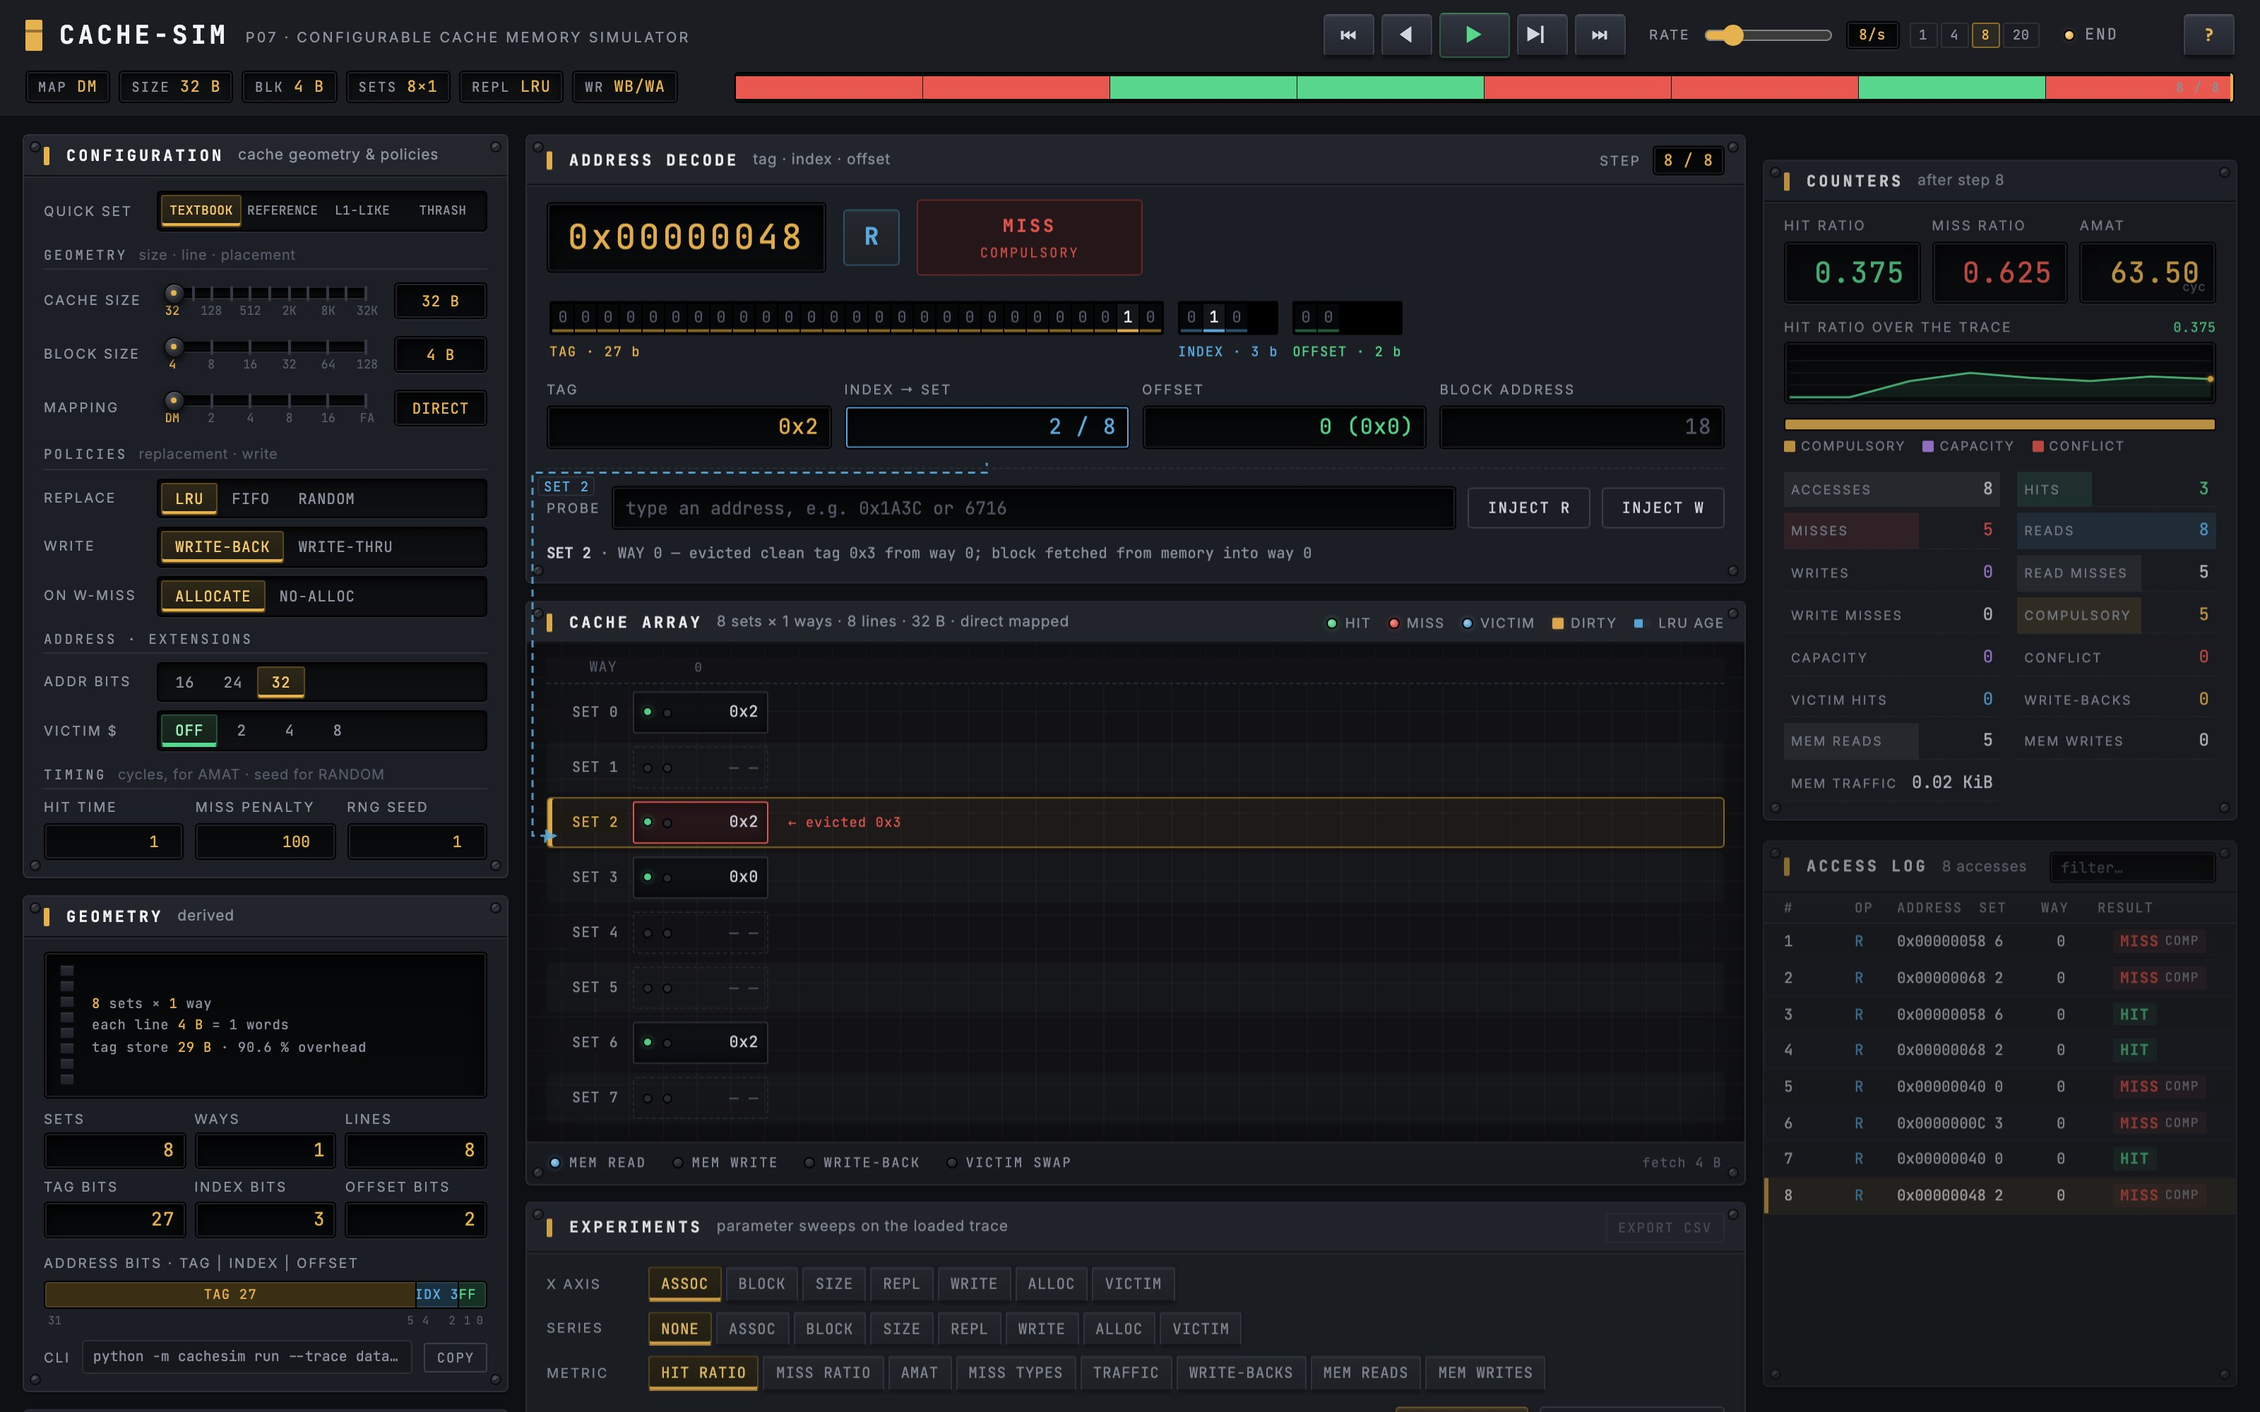
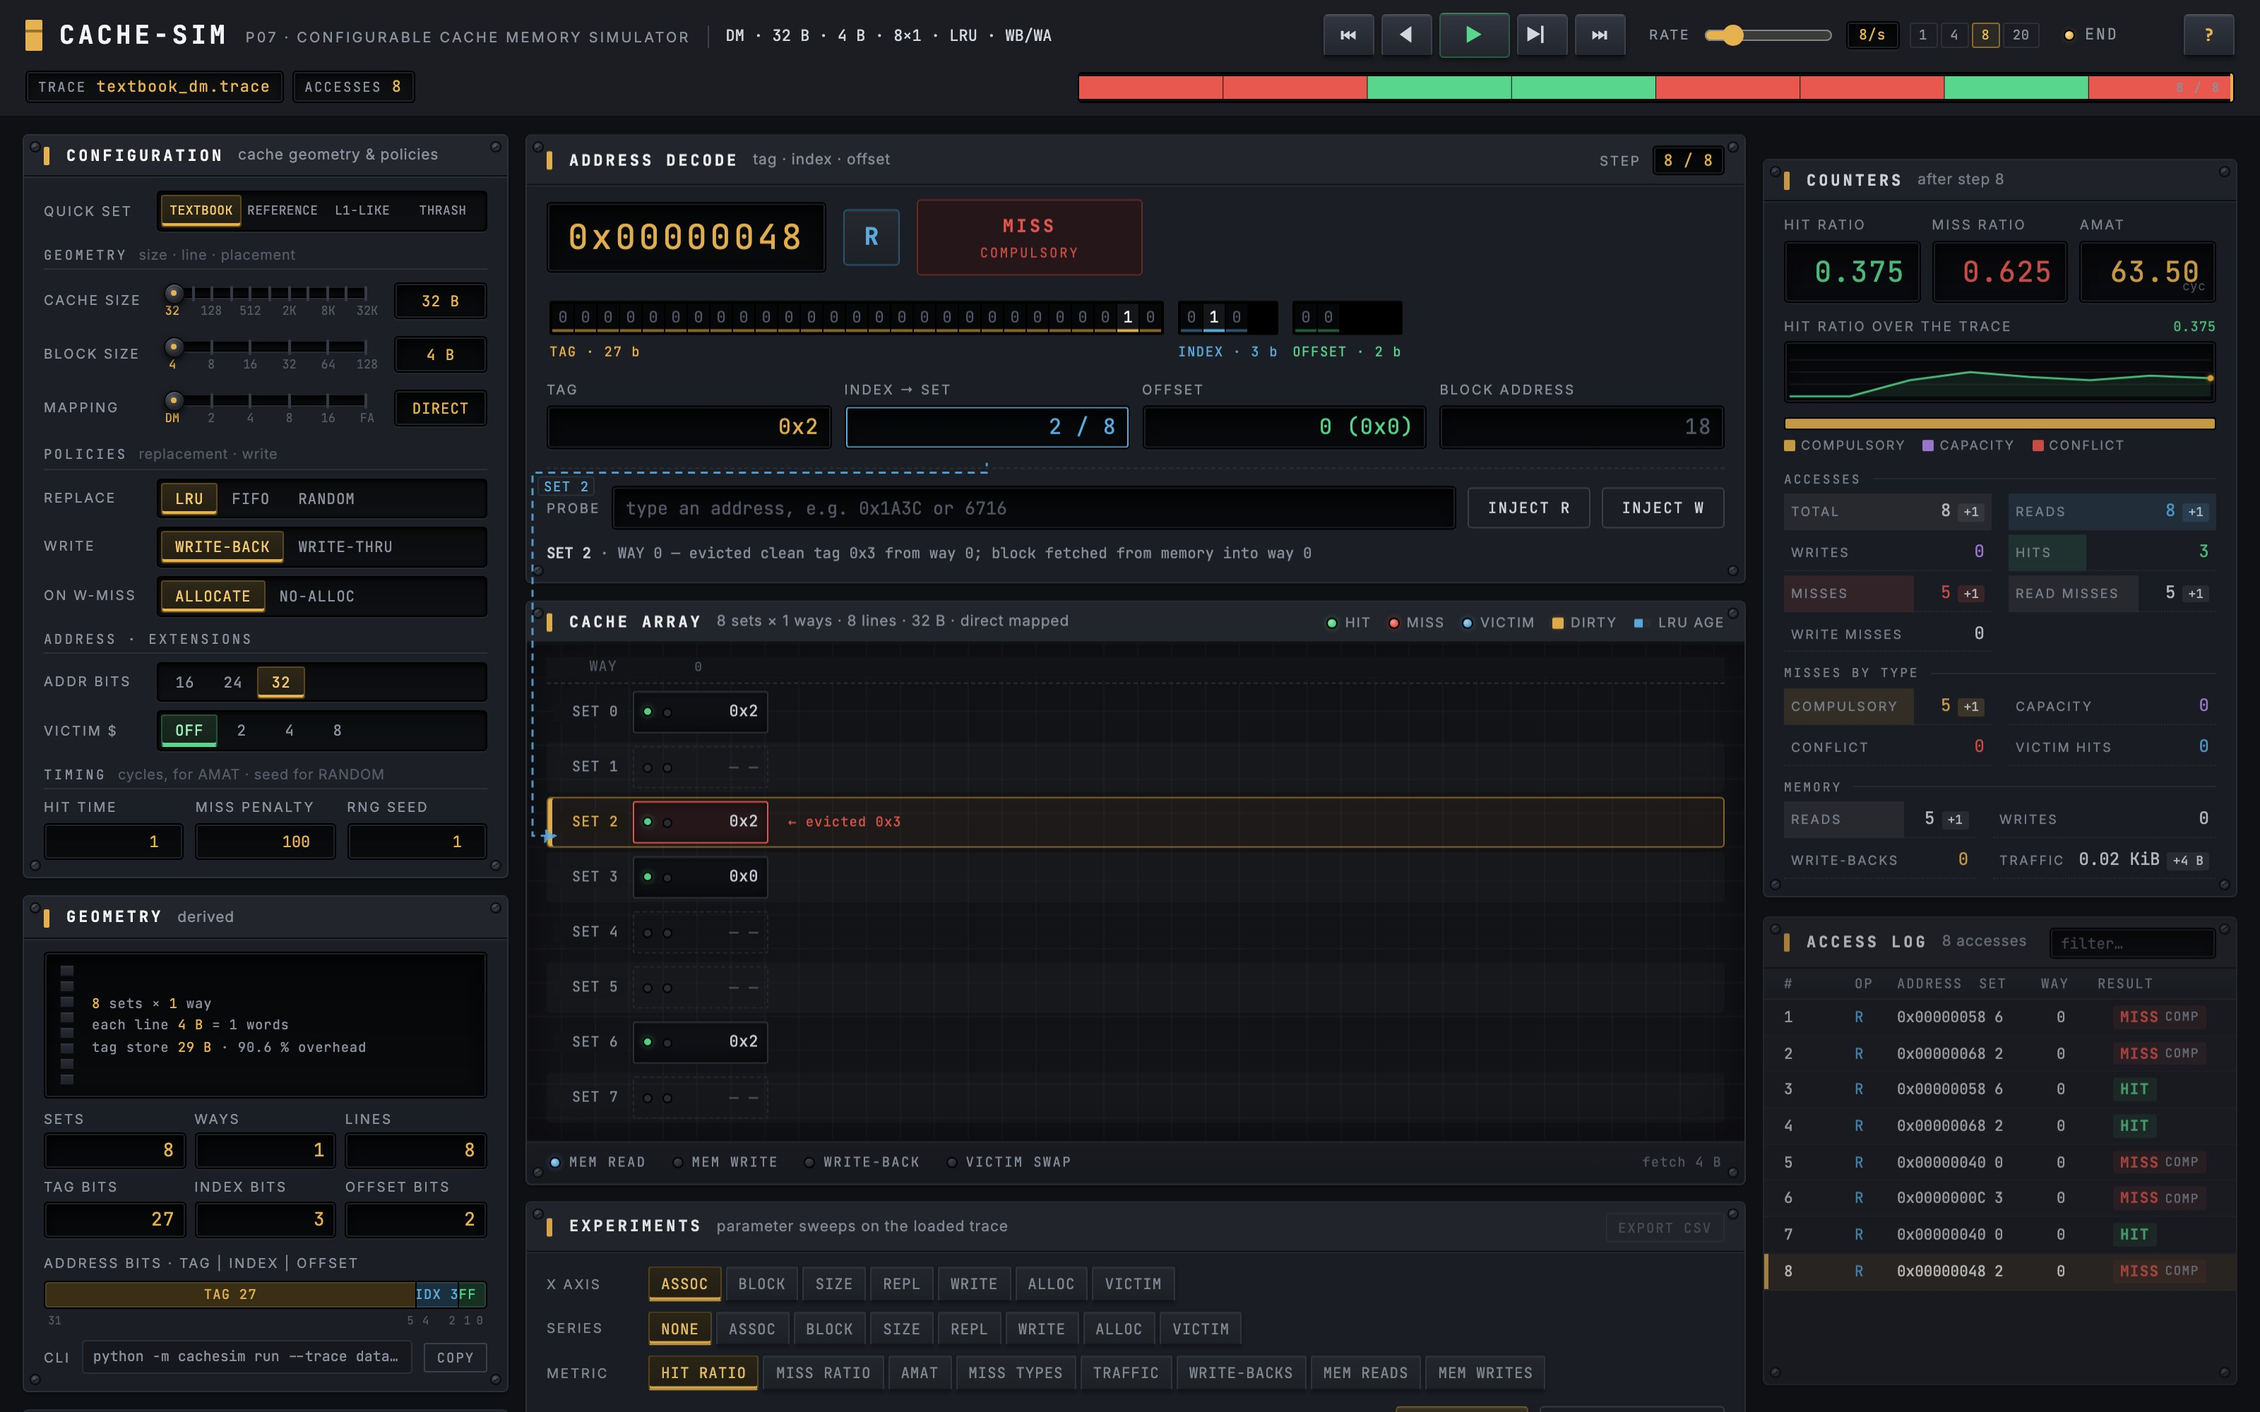
GUI: grouped counters with deltas, sortable sweep table, top-bar summary
- COUNTERS: three groups (accesses, misses by type, memory) with captions;
  every value that the current access changed shows a +n delta badge
- EXPERIMENTS: x-axis title on the chart; results table has a sticky header
  and sortable columns (click a header: descending, ascending, off), the
  hovered bar still highlights its row after sorting
- top bar: configuration summary sits next to the brand; the second row
  carries the trace name and access count beside the timeline

diff --git a/src/web/app.js b/src/web/app.js
@@ -32,6 +32,7 @@ const state = {
   sweepView: null,       // what the chart currently shows (for the hover tooltip)
   hiddenSeries: new Set(), // chart series switched off via the legend
   arrayFocus: null,        // set index the detail window is centred on (large caches), null = follow the access
+  sweepSort: null,         // {col, dir} for the results table
   presetCache: {},
 };
 
@@ -396,12 +397,12 @@ function cfgSubset(c) {
 function renderReadoutStrip() {
   const g = geometry();
   const map = g.is_fully_associative ? 'FULL' : (g.ways === 1 ? 'DM' : g.ways + '-WAY');
-  const chips = [
-    ['MAP', map], ['SIZE', fmtBytes(g.cache_size)], ['BLK', g.block_size + ' B'],
-    ['SETS', g.num_sets + '×' + g.ways], ['REPL', g.replacement],
-    ['WR', g.write_policy + (g.write_allocate ? '/WA' : '/NWA')],
-  ];
-  if (g.victim_entries) chips.push(['VC', g.victim_entries]);
+  const parts = [map, fmtBytes(g.cache_size), g.block_size + ' B', g.num_sets + '×' + g.ways, g.replacement, g.write_policy + (g.write_allocate ? '/WA' : '/NWA')];
+  if (g.victim_entries) parts.push('VC ' + g.victim_entries);
+  $('#brandCfg').textContent = parts.join(' · ');
+  const chips = [];
+  if (state.traceName) chips.push(['TRACE', state.traceName], ['ACCESSES', String(state.traceCount || '')]);
+  else chips.push(['TRACE', 'none loaded']);
   $('#readoutStrip').innerHTML = chips.map(([k, v]) => `<span class="chip"><b>${k}</b>${esc(v)}</span>`).join('');
 }
 
@@ -803,13 +804,11 @@ function renderArray() {
 }
 
 /* ---- counters ---- */
-const COUNTER_ITEMS = [
-  ['accesses', 'ACCESSES', ''], ['hits', 'HITS', 'green'], ['misses', 'MISSES', 'red'],
-  ['reads', 'READS', 'blue'], ['writes', 'WRITES', 'violet'],
-  ['read_misses', 'READ MISSES', ''], ['write_misses', 'WRITE MISSES', ''],
-  ['compulsory', 'COMPULSORY', 'amber'], ['capacity', 'CAPACITY', 'violet'], ['conflict', 'CONFLICT', 'red'],
-  ['victim_hits', 'VICTIM HITS', 'blue'], ['writebacks', 'WRITE-BACKS', 'amber'],
-  ['mem_reads', 'MEM READS', ''], ['mem_writes', 'MEM WRITES', ''],
+const COUNTER_GROUPS = [
+  ['ACCESSES', [['accesses', 'TOTAL', ''], ['reads', 'READS', 'blue'], ['writes', 'WRITES', 'violet'],
+                ['hits', 'HITS', 'green'], ['misses', 'MISSES', 'red'], ['read_misses', 'READ MISSES', ''], ['write_misses', 'WRITE MISSES', '']]],
+  ['MISSES BY TYPE', [['compulsory', 'COMPULSORY', 'amber'], ['capacity', 'CAPACITY', 'violet'], ['conflict', 'CONFLICT', 'red'], ['victim_hits', 'VICTIM HITS', 'blue']]],
+  ['MEMORY', [['mem_reads', 'READS', ''], ['mem_writes', 'WRITES', ''], ['writebacks', 'WRITE-BACKS', 'amber']]],
 ];
 function renderCounters() {
   const s = currentStats();
@@ -823,8 +822,16 @@ function renderCounters() {
   $('#missBar .cap').style.width = (100 * z('capacity') / m) + '%';
   $('#missBar .conf').style.width = (100 * z('conflict') / m) + '%';
   const n = Math.max(1, z('accesses'));
-  $('#counterGrid').innerHTML = COUNTER_ITEMS.map(([k, l, c]) => `<div class="ctr ${c}" style="--pct:${Math.min(100, 100 * z(k) / n).toFixed(1)}%"><span class="lbl">${l}</span><span class="val ${c}">${z(k)}</span></div>`).join('') +
-    `<div class="ctr"><span class="lbl">MEM TRAFFIC</span><span class="val">${s ? s.traffic_kib.toFixed(2) : '0.00'} KiB</span></div>`;
+  // what the current access changed: compare with the statistics after the previous step
+  const prev = s && !isEndSummary() ? (state.step >= 2 ? state.sim.events[state.step - 2].stats_after : null) : null;
+  const d = (k) => (s && !isEndSummary() ? s[k] - (prev ? prev[k] : 0) : 0);
+  const item = ([k, l, c]) => {
+    const dv = d(k);
+    return `<div class="ctr ${c}" style="--pct:${Math.min(100, 100 * z(k) / n).toFixed(1)}%"><span class="lbl">${l}</span><span class="val ${c}">${z(k)}${dv > 0 ? `<i class="delta">+${dv}</i>` : ''}</span></div>`;
+  };
+  const traffic = `<div class="ctr"><span class="lbl">TRAFFIC</span><span class="val">${s ? s.traffic_kib.toFixed(2) : '0.00'} KiB${prev && s.traffic_bytes > prev.traffic_bytes ? `<i class="delta">+${s.traffic_bytes - prev.traffic_bytes} B</i>` : ''}</span></div>`;
+  $('#counterGrid').innerHTML = COUNTER_GROUPS.map(([title, items], gi) =>
+    `<div class="ctr-group"><h5>${title}</h5><div class="ctr-list">${items.map(item).join('')}${gi === COUNTER_GROUPS.length - 1 ? traffic : ''}</div></div>`).join('');
   $('#countersSub').textContent = isEndSummary() ? 'final · whole trace' : (state.sim ? `after step ${state.step}` : 'at current step');
   renderSpark();
 }
@@ -1017,6 +1024,7 @@ async function runSweep() {
     });
     state.sweep = { rows: r.rows, param, series, trace: state.traceName, accesses: r.accesses };
     state.hiddenSeries.clear();
+    state.sweepSort = null;
     renderSweep();
     $('#btnExportCsv').disabled = false;
     toast(`sweep done · ${r.rows.length} configurations`);
@@ -1049,15 +1057,36 @@ function renderSweep() {
   }
   series.forEach((s) => { s.hidden = state.hiddenSeries.has(s.name); });
   const title = `${METRIC_LABELS[metric]} vs ${SWEEP_LABELS[sw.param]}${sw.series ? ' · series: ' + SWEEP_LABELS[sw.series] : ''}`;
+  const sweepable = (state.meta && state.meta.sweepable) || {};
+  const xlabel = sw.param === 'trace' ? 'TRACE' : (sweepable[sw.param] || SWEEP_LABELS[sw.param]).toUpperCase();
   state.sweepView = { cats, series, stacked, fmt, metric, metricLabel: METRIC_LABELS[metric], rows: sw.rows, seriesParam: sw.series };
-  $('#chartOut').innerHTML = barChartSVG({ title, subtitle: `trace: ${sw.trace} · ${sw.accesses} accesses · base: ${cliEquivalent().replace('python -m cachesim run ', '')}`, cats, series, stacked, fmt, ylabel });
+  $('#chartOut').innerHTML = barChartSVG({ title, subtitle: `trace: ${sw.trace} · ${sw.accesses} accesses · base: ${cliEquivalent().replace('python -m cachesim run ', '')}`, cats, series, stacked, fmt, ylabel, xlabel });
   hideChartTip();
   // table
   const cols = ['hit_ratio', 'miss_ratio', 'compulsory', 'capacity', 'conflict', 'writebacks', 'mem_reads', 'mem_writes', 'traffic_kib', 'amat'];
-  const head = `<tr><th>SERIES</th><th>${SWEEP_LABELS[sw.param]}</th><th>SETS×WAYS</th>${cols.map((c) => `<th>${c.replace(/_/g, ' ').toUpperCase()}</th>`).join('')}</tr>`;
-  const body = sw.rows.map((r) => {
-    if (r.error) return `<tr><td>${esc(r.series || '—')}</td><td>${esc(r.label)}</td><td class="err" colspan="${cols.length + 1}">${esc(r.error)}</td></tr>`;
-    return `<tr><td>${esc(r.series || '—')}</td><td>${esc(r.label)}</td><td>${r.geometry.num_sets}×${r.geometry.ways}</td>${cols.map((c) => { const v = r.stats[c]; return `<td>${typeof v === 'number' && !Number.isInteger(v) ? v.toFixed(c === 'amat' || c === 'traffic_kib' ? 2 : 4) : v}</td>`; }).join('')}</tr>`;
+  const sortKey = (r, col) => {
+    if (r.error) return null;
+    if (col === 'series') return r.series || '';
+    if (col === 'label') return sw.rows.indexOf(r);              // keeps the sweep order
+    if (col === 'geometry') return r.geometry.num_sets * 1000 + r.geometry.ways;
+    return r.stats[col];
+  };
+  const sort = state.sweepSort;
+  let rowsSorted = sw.rows.slice();
+  if (sort) {
+    rowsSorted.sort((x, y) => {
+      const kx = sortKey(x, sort.col), ky = sortKey(y, sort.col);
+      if (kx === null) return 1; if (ky === null) return -1;
+      const c = typeof kx === 'string' ? kx.localeCompare(ky) : kx - ky;
+      return sort.dir === 'asc' ? c : -c;
+    });
+  }
+  const th = (col, label) => `<th data-col="${col}" class="${sort && sort.col === col ? 'sorted ' + sort.dir : ''}" title="sort by ${label.toLowerCase()}">${label}<i class="sort-ind"></i></th>`;
+  const head = `<tr>${th('series', 'SERIES')}${th('label', SWEEP_LABELS[sw.param])}${th('geometry', 'SETS×WAYS')}${cols.map((c) => th(c, c.replace(/_/g, ' ').toUpperCase())).join('')}</tr>`;
+  const body = rowsSorted.map((r) => {
+    const i = sw.rows.indexOf(r);
+    if (r.error) return `<tr data-i="${i}"><td>${esc(r.series || '—')}</td><td>${esc(r.label)}</td><td class="err" colspan="${cols.length + 1}">${esc(r.error)}</td></tr>`;
+    return `<tr data-i="${i}"><td>${esc(r.series || '—')}</td><td>${esc(r.label)}</td><td>${r.geometry.num_sets}×${r.geometry.ways}</td>${cols.map((c) => { const v = r.stats[c]; return `<td class="${sort && sort.col === c ? 'sorted' : ''}">${typeof v === 'number' && !Number.isInteger(v) ? v.toFixed(c === 'amat' || c === 'traffic_kib' ? 2 : 4) : v}</td>`; }).join('')}</tr>`;
   }).join('');
   $('#sweepTable').innerHTML = `<table>${head}${body}</table>`;
 }
@@ -1108,8 +1137,8 @@ function niceMax(v) {
   for (const m of [1, 2, 2.5, 5, 10]) if (v <= m * base) return m * base;
   return 10 * base;
 }
-function barChartSVG({ title, subtitle, cats, series, stacked, fmt, ylabel }) {
-  const W = 820, H = 340, pl = 56, pr = 16, pt = 52, pb = 58;
+function barChartSVG({ title, subtitle, cats, series, stacked, fmt, ylabel, xlabel }) {
+  const W = 820, H = 356, pl = 56, pr = 16, pt = 52, pb = 74;
   const pw = W - pl - pr, ph = H - pt - pb;
   let top;
   const shown = series.filter((s) => !s.hidden);
@@ -1153,6 +1182,7 @@ function barChartSVG({ title, subtitle, cats, series, stacked, fmt, ylabel }) {
     o += `<text x="${pl + ci * gw + gw / 2}" y="${pt + ph + 16}" fill="#C9CDD4" text-anchor="middle" font-size="10.5">${esc(c)}</text>`;
   });
   o += `<line x1="${pl}" y1="${pt + ph}" x2="${pl + pw}" y2="${pt + ph}" stroke="#7E8591"/>`;
+  if (xlabel) o += `<text x="${pl + pw / 2}" y="${pt + ph + 34}" fill="#7E8591" font-size="9.5" text-anchor="middle" letter-spacing="1">${esc(xlabel)}</text>`;
   let lx = pl; const ly = H - 16;
   series.forEach((s) => {
     o += `<g class="legend-item${s.hidden ? ' off' : ''}" data-name="${esc(s.name)}"><rect x="${lx - 4}" y="${ly - 9}" width="${13 + 6.5 * s.name.length + 10}" height="18" fill="transparent"/>` +
@@ -1208,7 +1238,7 @@ function chartHover(ev) {
   svg.querySelectorAll('rect.bar').forEach((r) => r.classList.toggle('hot', Number(r.dataset.ci) === ci && (v.stacked || Number(r.dataset.si) === si)));
   const trs = $$('#sweepTable tbody tr, #sweepTable tr');
   trs.forEach((tr) => tr.classList.remove('hot'));
-  if (row) { const idx = v.rows.indexOf(row); const tr = $('#sweepTable table') && $('#sweepTable table').rows[idx + 1]; if (tr) tr.classList.add('hot'); }
+  if (row) { const idx = v.rows.indexOf(row); const tr = $(`#sweepTable tr[data-i="${idx}"]`); if (tr) tr.classList.add('hot'); }
 }
 
 /* ---- help overlay & shortcuts ---- */
@@ -1268,6 +1298,12 @@ function wire() {
   $('#helpOverlay').addEventListener('click', (e) => { if (e.target === $('#helpOverlay')) toggleHelp(false); });
   $('#chartOut').addEventListener('mousemove', chartHover);
   $('#chartOut').addEventListener('mouseleave', hideChartTip);
+  $('#sweepTable').addEventListener('click', (e) => {
+    const th = e.target.closest('th[data-col]'); if (!th || !state.sweep) return;
+    const col = th.dataset.col, cur = state.sweepSort;
+    state.sweepSort = cur && cur.col === col ? (cur.dir === 'desc' ? { col, dir: 'asc' } : null) : { col, dir: 'desc' };
+    renderSweep();
+  });
   $('#chartOut').addEventListener('click', (e) => {
     const it = e.target.closest ? e.target.closest('.legend-item') : null;
     if (!it || !state.sweep) return;

diff --git a/src/web/style.css b/src/web/style.css
@@ -87,6 +87,7 @@ code { font-family: var(--mono); }
 }
 .brand-name { font-family: var(--mono); font-weight: 700; font-size: 18px; letter-spacing: .14em; color: var(--text-strong); }
 .brand-sub { font-size: 10px; letter-spacing: .16em; color: var(--muted); margin-top: 2px; }
+.brand-cfg { font-family: var(--mono); font-size: 11px; color: var(--text); margin-top: 2px; padding-left: 12px; border-left: 1px solid var(--bezel-hi); white-space: nowrap; }
 
 .readout-strip { grid-area: chips; display: flex; gap: 6px; flex-wrap: nowrap; overflow-x: auto; scrollbar-width: none; max-width: min(64vw, 680px); }
 .readout-strip { -webkit-mask-image: linear-gradient(90deg, #000 calc(100% - 22px), transparent); mask-image: linear-gradient(90deg, #000 calc(100% - 22px), transparent); padding-right: 22px; }
@@ -893,3 +894,30 @@ kbd {
 .window-note { display: flex; align-items: center; gap: 8px; }
 .heat i { cursor: pointer; }
 .heat i:hover { outline: 1px solid var(--muted); outline-offset: 1px; }
+
+/* ---------------------------------------------------------------- */
+/*  Counters: groups + deltas                                        */
+/* ---------------------------------------------------------------- */
+#counterGrid { display: flex; flex-direction: column; gap: 9px; }
+.ctr-group h5 { margin: 0 0 4px; font-family: var(--mono); font-size: 9px; letter-spacing: .16em; color: var(--muted); font-weight: 400; display: flex; align-items: center; gap: 8px; }
+.ctr-group h5::after { content: ""; flex: 1; border-top: 1px solid var(--bezel); }
+.ctr-list { display: grid; grid-template-columns: 1fr 1fr; gap: 3px 12px; }
+.ctr .val { display: inline-flex; align-items: baseline; }
+.ctr .delta { font-style: normal; font-size: 9px; margin-left: 5px; padding: 0 4px; border-radius: 2px; background: rgba(255,255,255,.08); color: var(--text); animation: deltaIn .3s ease-out; }
+.ctr.green .delta { background: rgba(88,214,141,.18); } .ctr.red .delta { background: rgba(232,88,79,.18); } .ctr.amber .delta { background: rgba(230,177,79,.2); }
+.ctr.blue .delta { background: rgba(93,173,226,.18); } .ctr.violet .delta { background: rgba(179,136,235,.18); }
+@keyframes deltaIn { 0% { transform: translateY(-3px); opacity: 0; } 100% { transform: none; opacity: 1; } }
+
+/* ---------------------------------------------------------------- */
+/*  Experiments table: sticky header, sortable columns               */
+/* ---------------------------------------------------------------- */
+.exp-table { max-height: 360px; overflow: auto; }
+.exp-table th { position: sticky; top: 0; z-index: 1; cursor: pointer; user-select: none; background: var(--panel-3); }
+.exp-table th:hover { color: var(--text); }
+.exp-table th.sorted { color: var(--amber); }
+.exp-table th .sort-ind { display: inline-block; width: 8px; margin-left: 3px; font-style: normal; }
+.exp-table th.sorted.desc .sort-ind::after { content: "▼"; font-size: 7px; }
+.exp-table th.sorted.asc .sort-ind::after { content: "▲"; font-size: 7px; }
+.exp-table td.sorted { color: var(--text); font-weight: 500; }
+@media (max-width: 1260px) { .brand-cfg { padding-left: 0; border-left: 0; } }
+@media (max-width: 920px) { .brand-cfg { display: none; } }

diff --git a/src/web/index.html b/src/web/index.html
@@ -17,6 +17,7 @@
     <span class="brand-mark"></span>
     <span class="brand-name">CACHE‑SIM</span>
     <span class="brand-sub">P07 · CONFIGURABLE CACHE MEMORY SIMULATOR</span>
+    <span class="brand-cfg" id="brandCfg" title="current configuration"></span>
   </div>
   <div class="readout-strip" id="readoutStrip"></div>
   <div class="transport">
